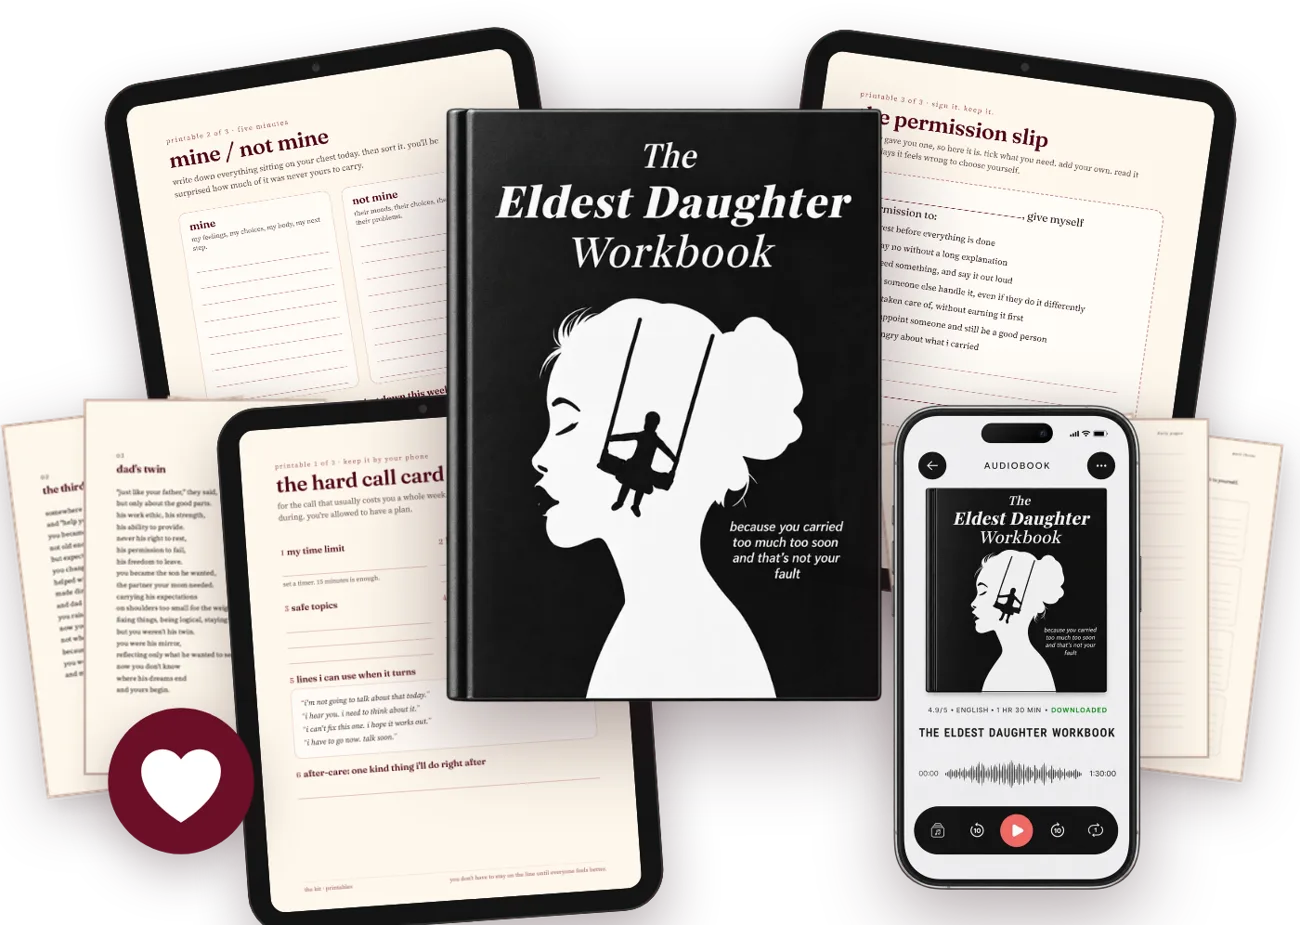
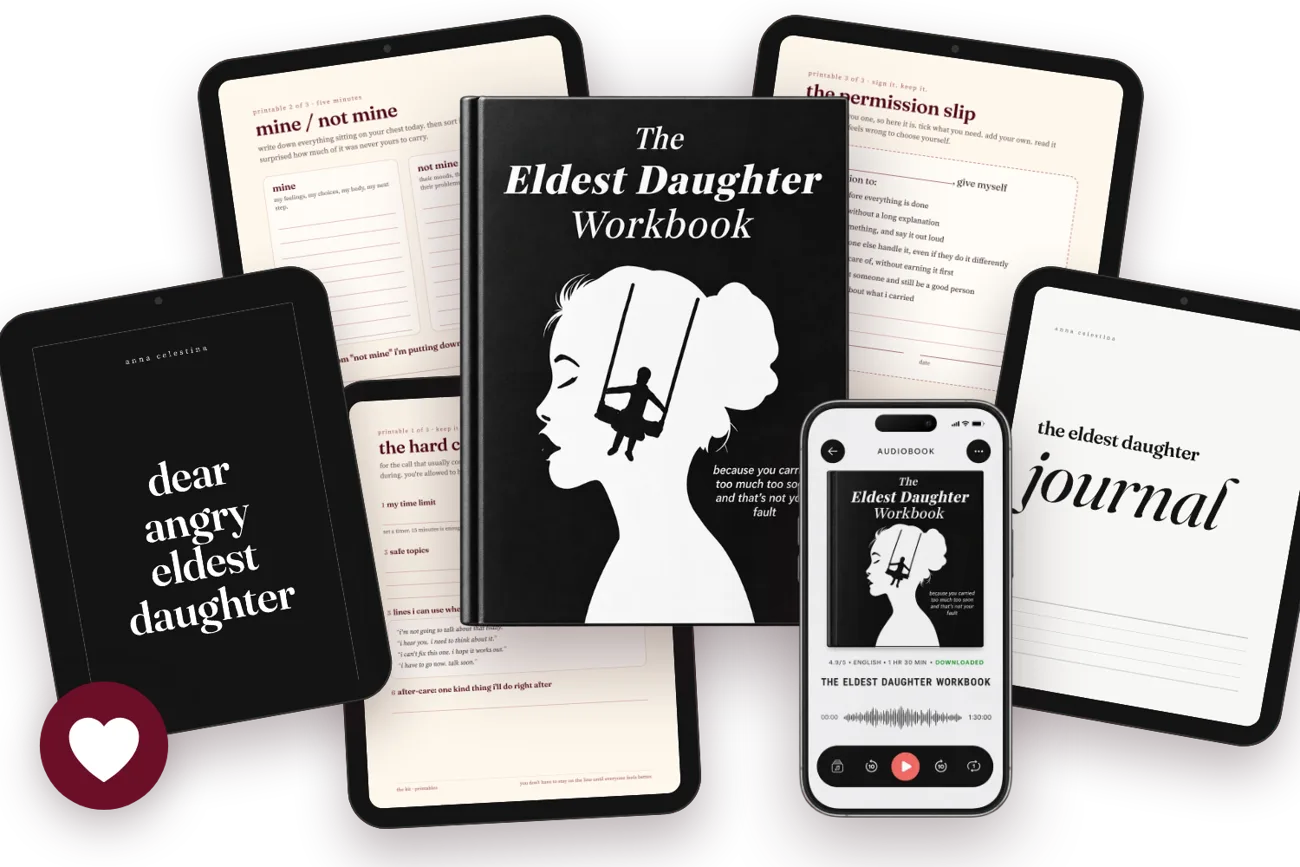
Kit image: poems and journal shown as their own tablets
Claude-Session: https://claude.ai/code/session_01LL1mB2P2VRvoL1n8mHXFs8

diff --git a/kit/index.html b/kit/index.html
@@ -277,7 +277,7 @@ body.co-open{position:fixed;left:0;right:0;width:100%;overflow:hidden}
   </header>
 
   <figure class="lead-fig">
-    <img src="/images/kit/kit-mockup.webp" alt="the kit: the workbook, the audiobook, the poems, the journal and the printables" width="1300" height="925" fetchpriority="high" decoding="async">
+    <img src="/images/kit/kit-mockup.webp" alt="the kit: the workbook, the audiobook, the poems, the journal and the printables" width="1300" height="867" fetchpriority="high" decoding="async">
     <figcaption>the kit: workbook, audiobook, poems, journal and 3 printables</figcaption>
   </figure>
 
@@ -287,7 +287,7 @@ body.co-open{position:fixed;left:0;right:0;width:100%;overflow:hidden}
   <p class="big">that isn't who you are. it's what you learned.</p>
 
   <div class="strip">
-    <img src="/images/kit/kit-mockup.webp" alt="" width="1300" height="925" loading="lazy" decoding="async">
+    <img src="/images/kit/kit-mockup.webp" alt="" width="1300" height="867" loading="lazy" decoding="async">
     <div><b>the complete kit · $27</b><span>workbook, audiobook (free today), poems, journal and printables. instant download.</span><a href="#offer">see what's inside ↓</a></div>
   </div>
 
@@ -368,7 +368,7 @@ body.co-open{position:fixed;left:0;right:0;width:100%;overflow:hidden}
   <div class="vtotal"><span>everything separately <s>$43.97</s></span><span>today, together <b>$27</b></span></div>
 
   <div class="offer" id="offer">
-    <img class="kitimg" src="/images/kit/kit-mockup.webp" alt="the complete kit" width="1300" height="925" loading="lazy" decoding="async">
+    <img class="kitimg" src="/images/kit/kit-mockup.webp" alt="the complete kit" width="1300" height="867" loading="lazy" decoding="async">
     <h3>the complete kit</h3>
     <p class="stars"><b>★★★★★</b> 4.8 · 600 reviews</p>
     <ul class="incl">
@@ -443,7 +443,7 @@ body.co-open{position:fixed;left:0;right:0;width:100%;overflow:hidden}
   <div class="wide center">
     <h2>you spent years becoming who everyone else needed.</h2>
     <p class="sub">it's your turn now.</p>
-    <img src="/images/kit/kit-mockup.webp" alt="the complete kit" width="1300" height="925" loading="lazy" decoding="async">
+    <img src="/images/kit/kit-mockup.webp" alt="the complete kit" width="1300" height="867" loading="lazy" decoding="async">
     <div class="price"><span class="was">everything separately: <s>$43.97</s></span><span class="now">$27<small>today</small></span></div>
     <a class="cta" href="#offer">get the complete kit →</a>
     <p class="cta-note" style="color:#F2DED6">instant download · 14-day money-back guarantee</p>
